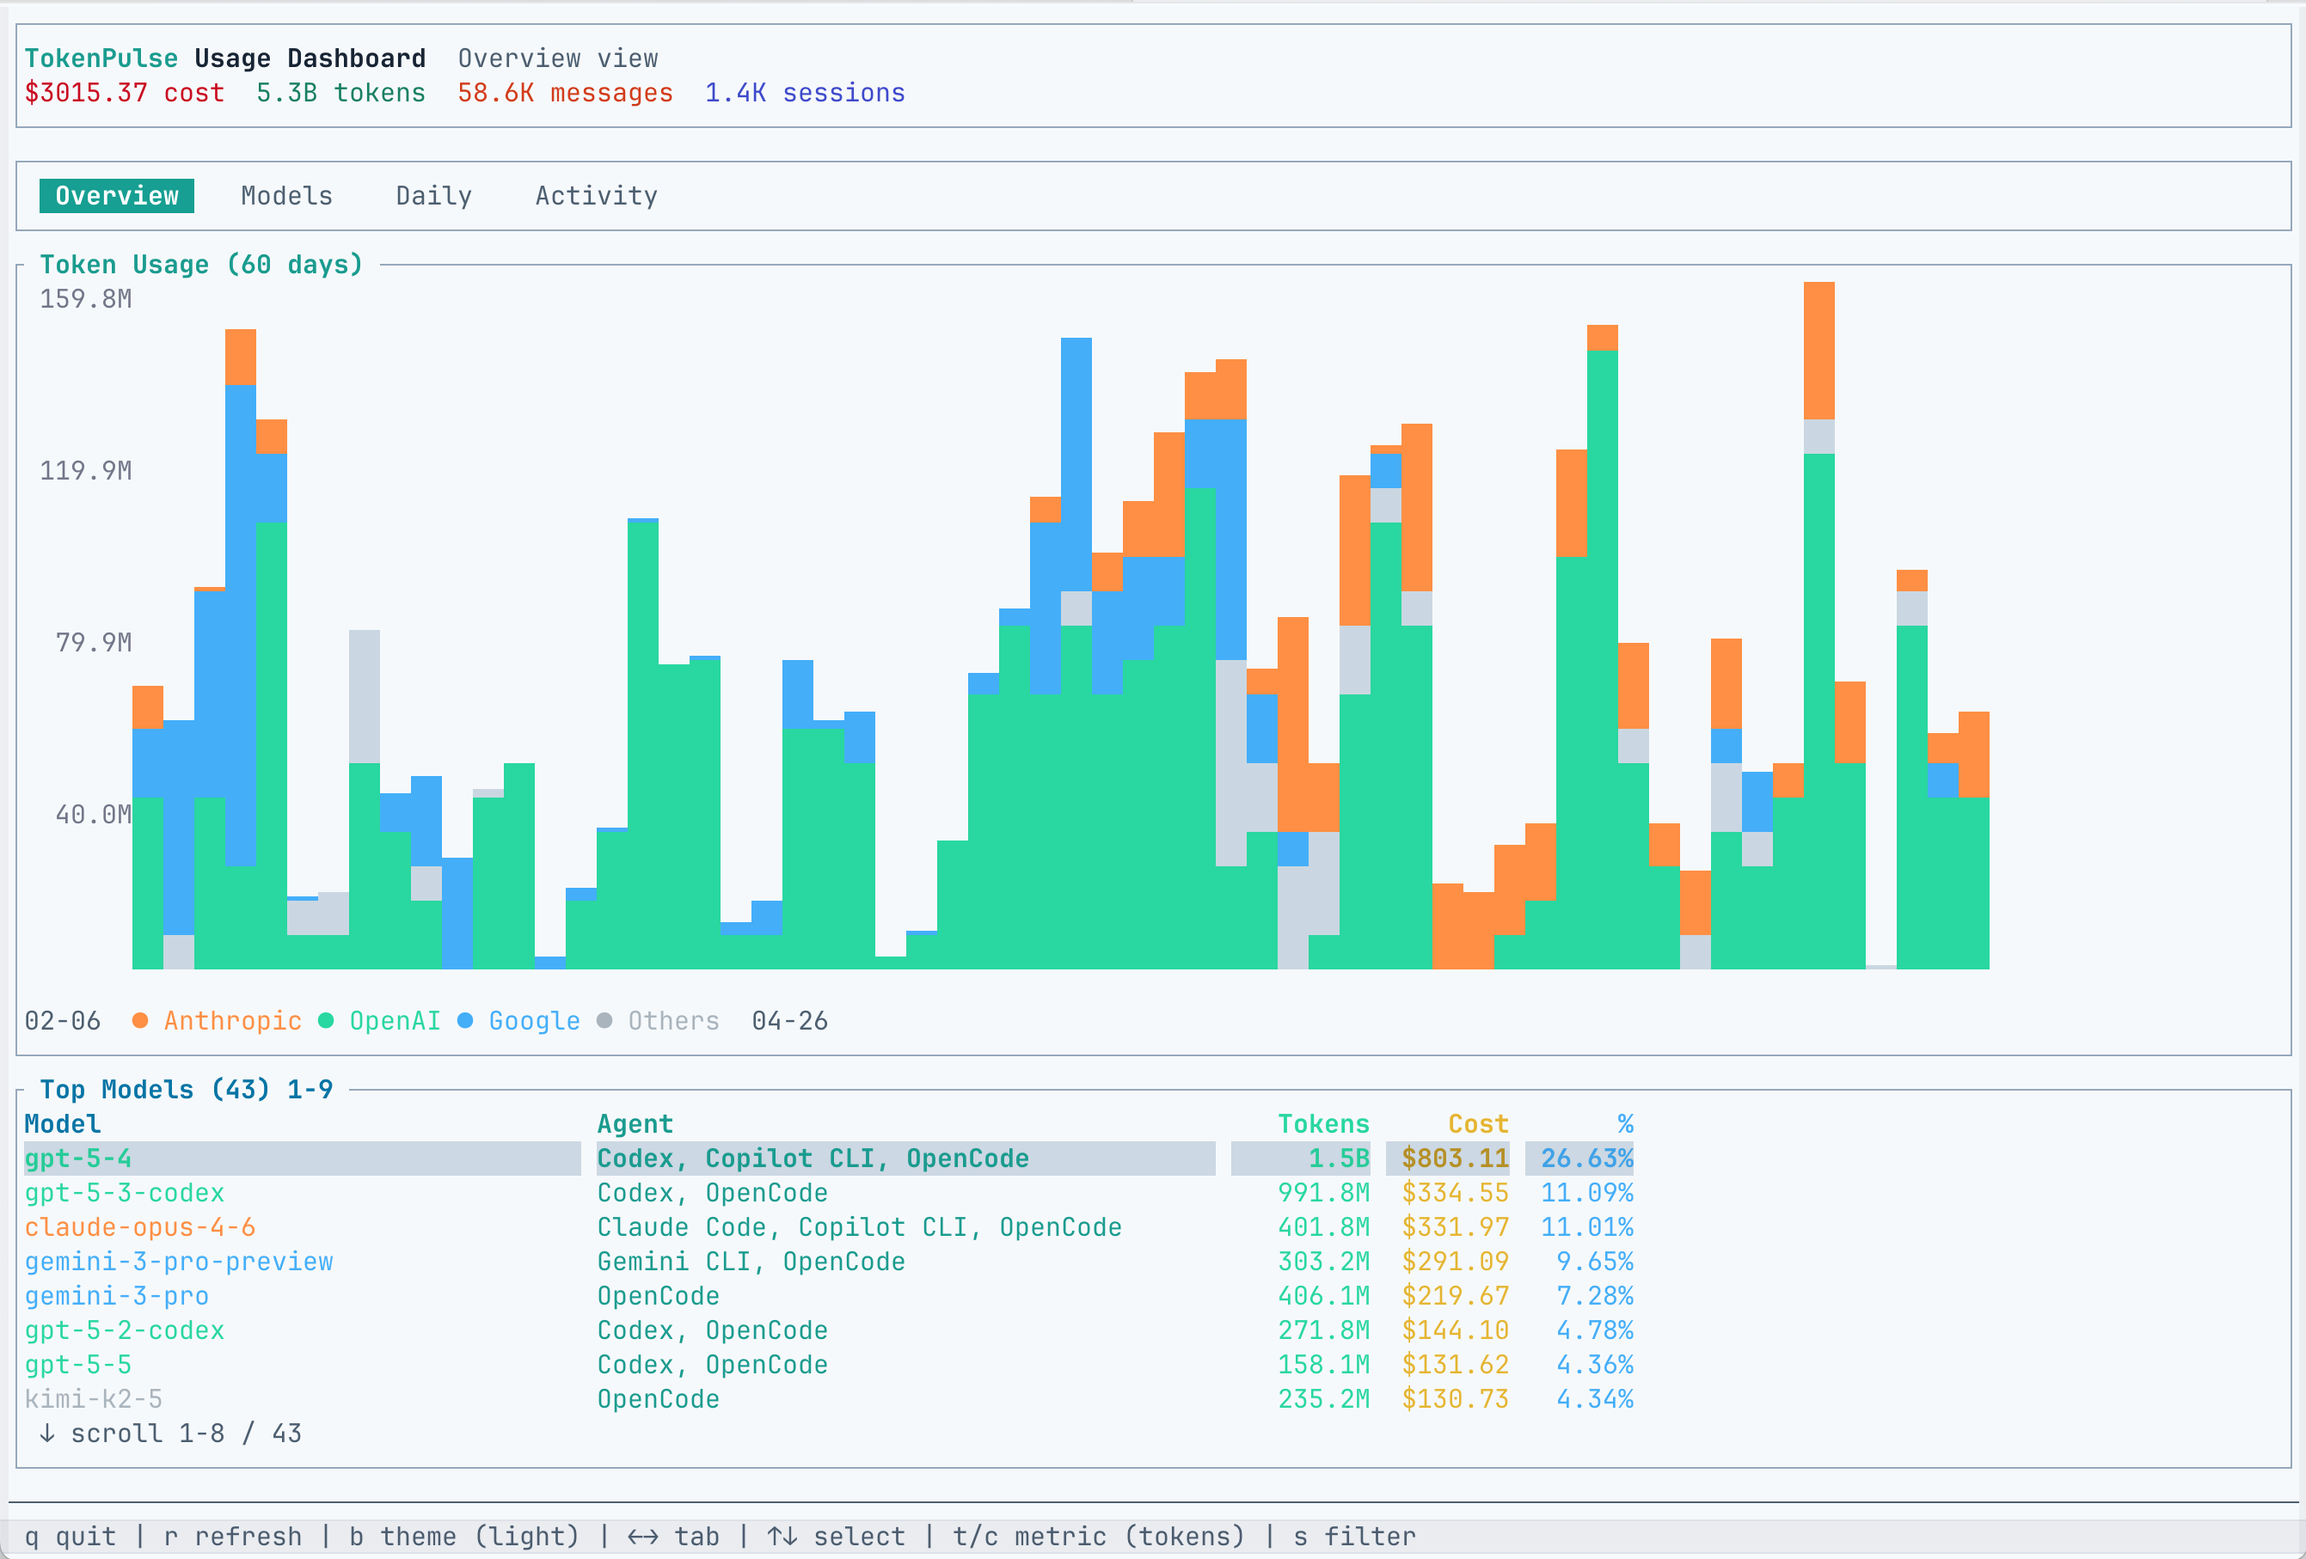
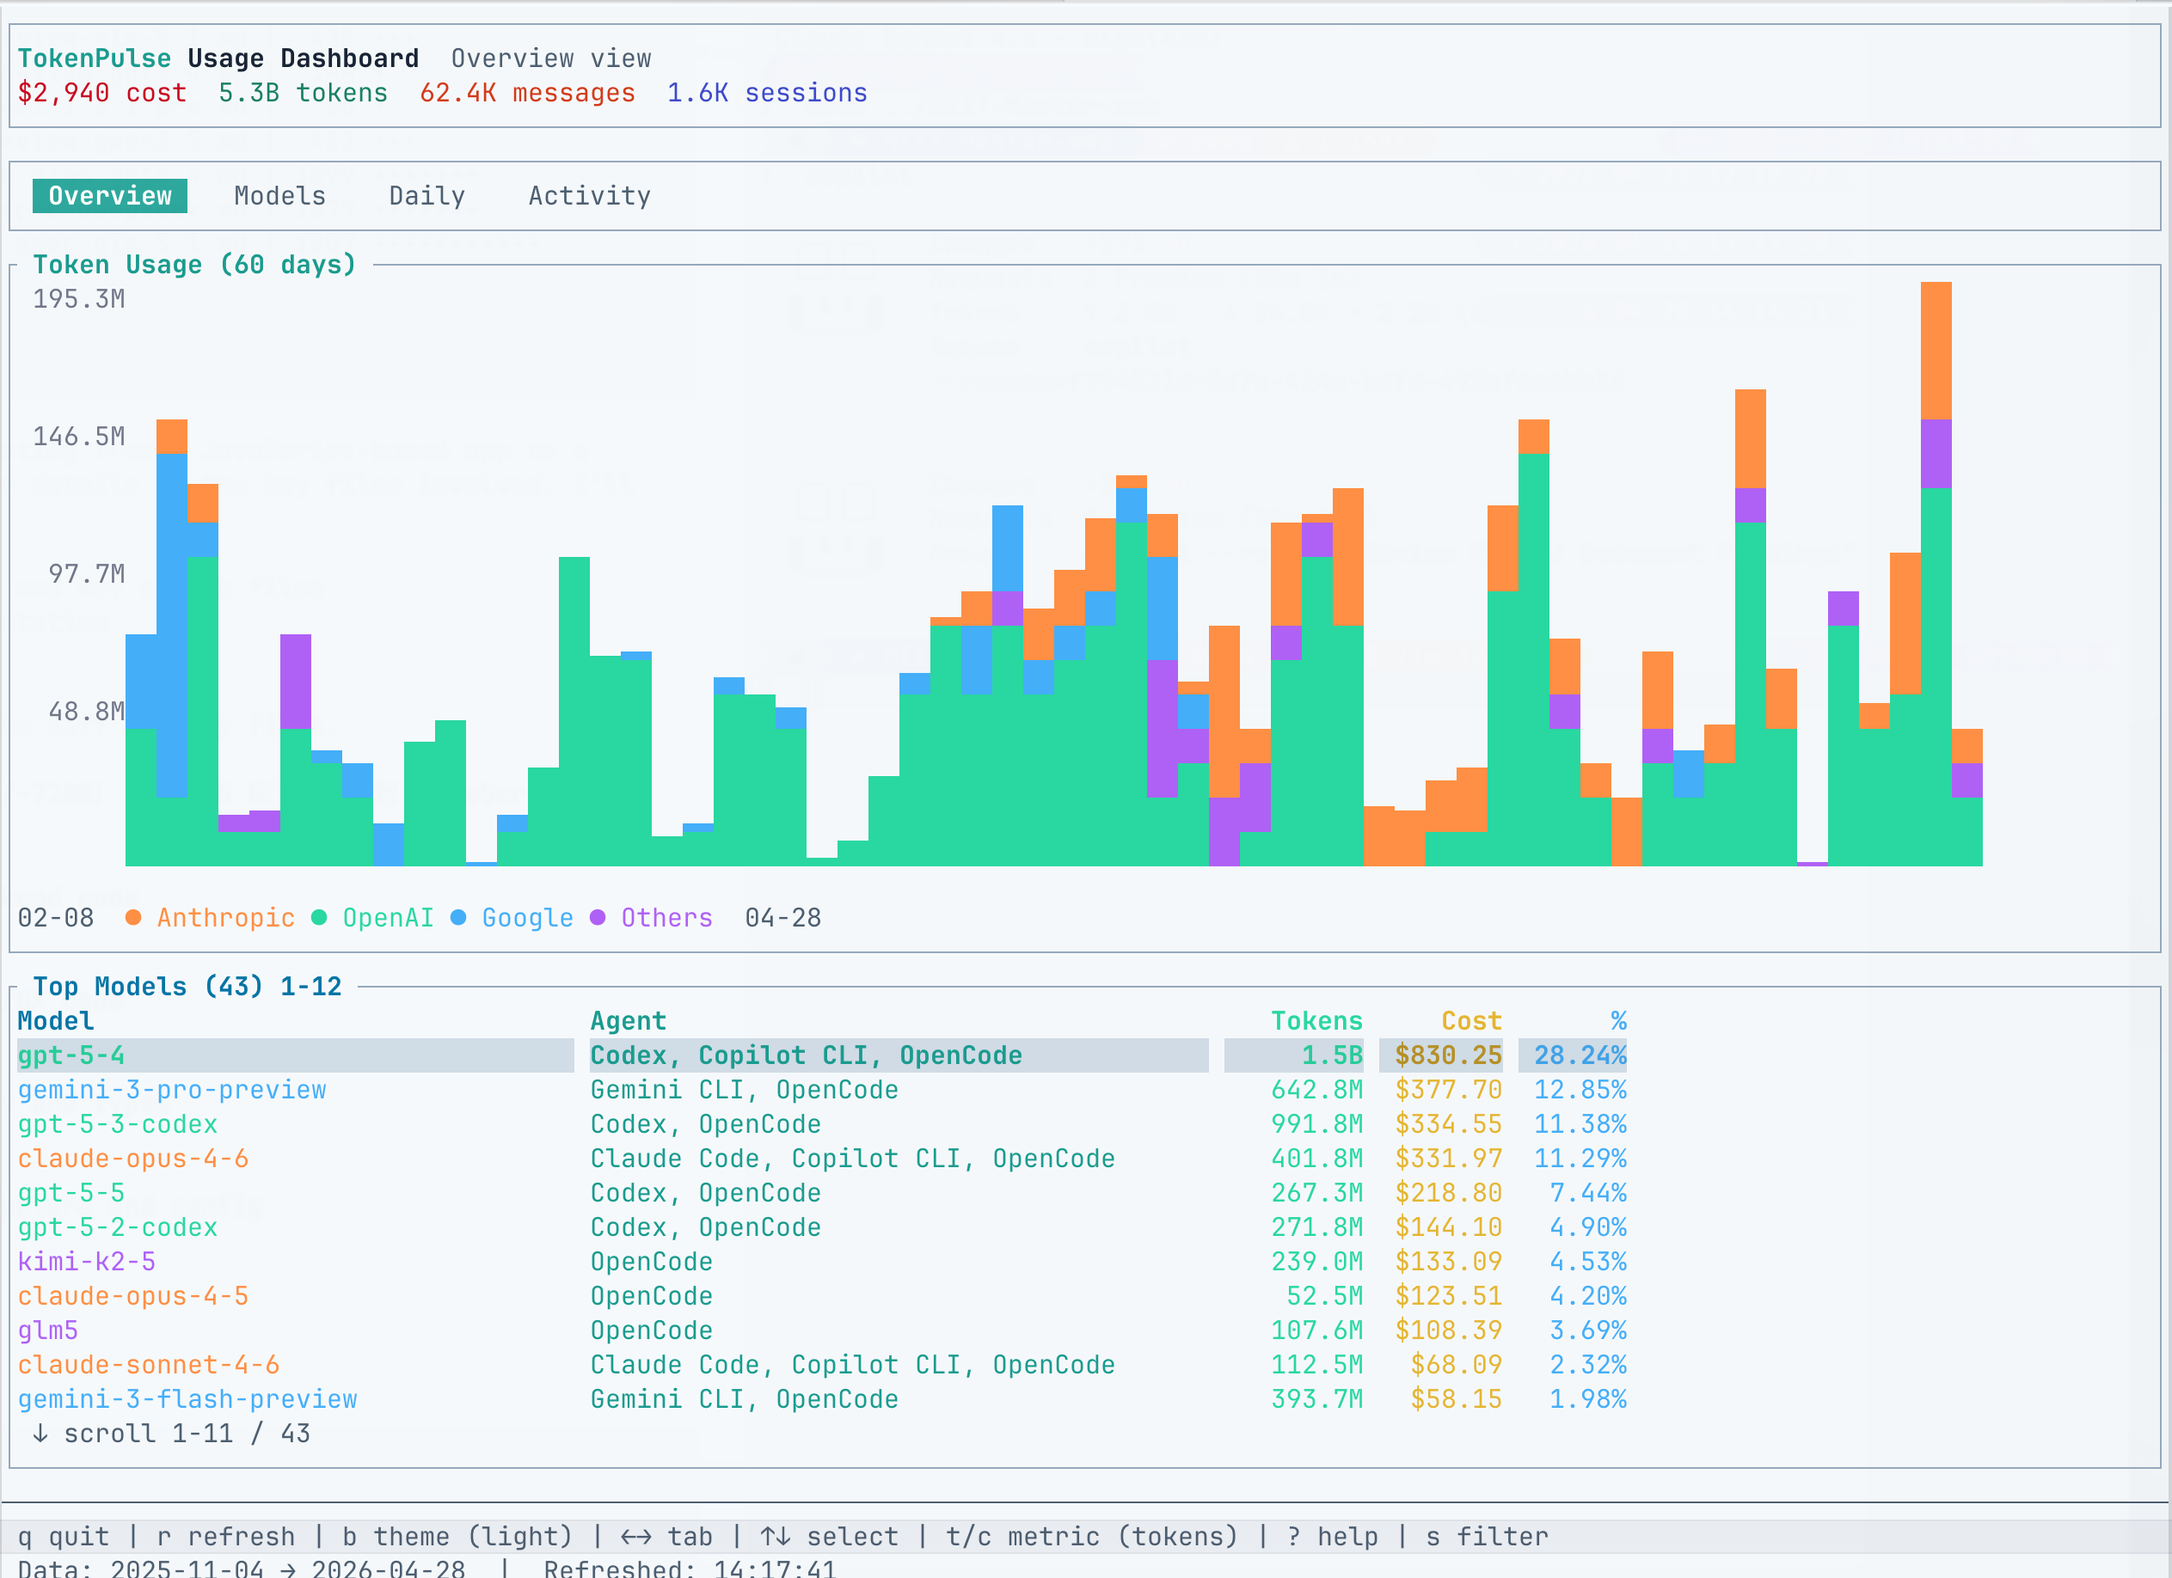
fix: add preview suffix to gemini-3-pro/flash model names, update docs images, bump v0.1.6

Changed region(s): [[0.0, 0.0, 1.0, 1.0], [0.0, 0.0309, 0.4014, 0.2161]]

diff --git a/tokenpulse-core/src/usage/utils.rs b/tokenpulse-core/src/usage/utils.rs
@@ -40,7 +40,16 @@ pub fn normalize_model_name(model_id: &str) -> String {
         normalized = stripped.to_string();
     }
 
-    normalized.trim_matches('-').to_string()
+    normalized = normalized.trim_matches('-').to_string();
+
+    match normalized.as_str() {
+        "gemini-3-pro" | "gemini-3-flash" => {
+            normalized.push_str("-preview");
+        }
+        _ => {}
+    }
+
+    normalized
 }
 
 fn strip_tier_suffix(model_id: &str) -> String {
@@ -146,7 +155,8 @@ mod tests {
             "claude-opus-4-6"
         );
         assert_eq!(normalize_model_name("z-ai/glm-5.1-low"), "glm-5-1");
-        assert_eq!(normalize_model_name("gemini-3-pro-medium"), "gemini-3-pro");
+        assert_eq!(normalize_model_name("gemini-3-pro-medium"), "gemini-3-pro-preview");
+        assert_eq!(normalize_model_name("gemini-3-flash"), "gemini-3-flash-preview");
     }
 
     #[test]
